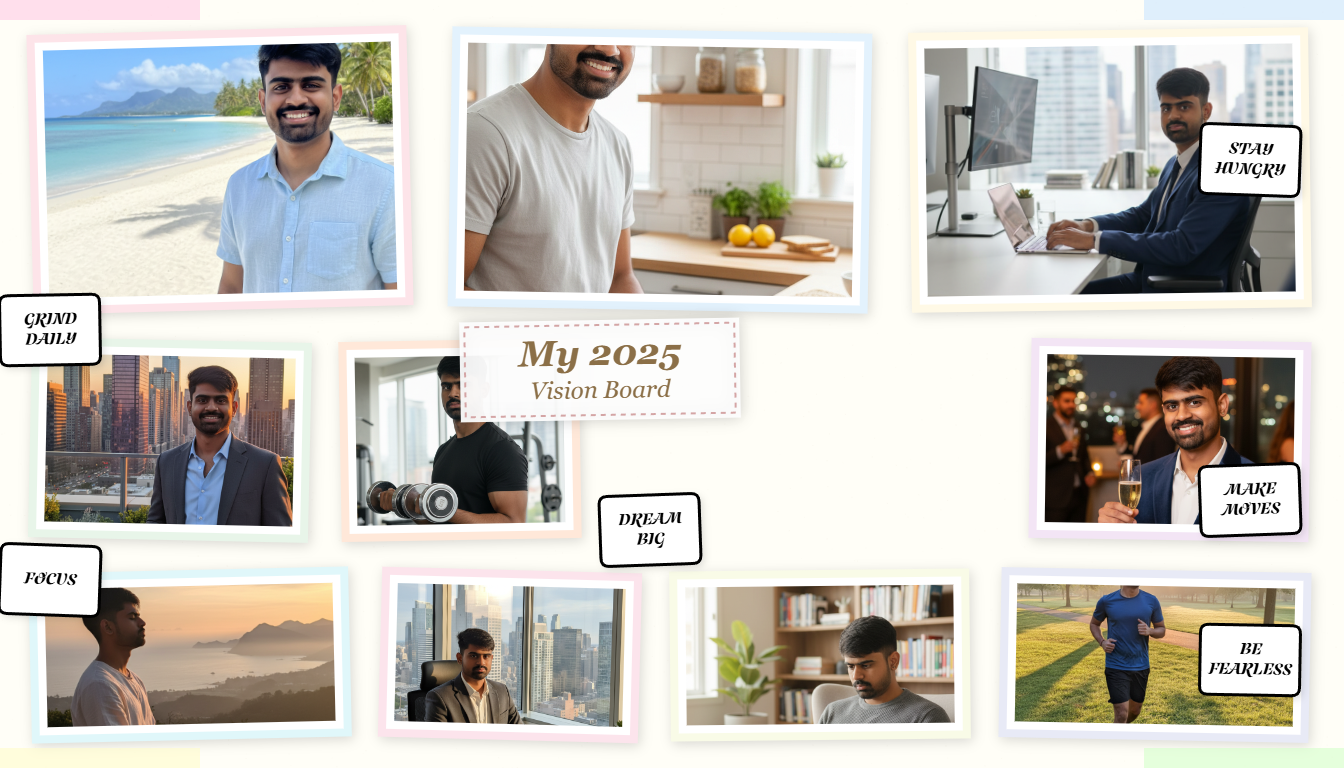
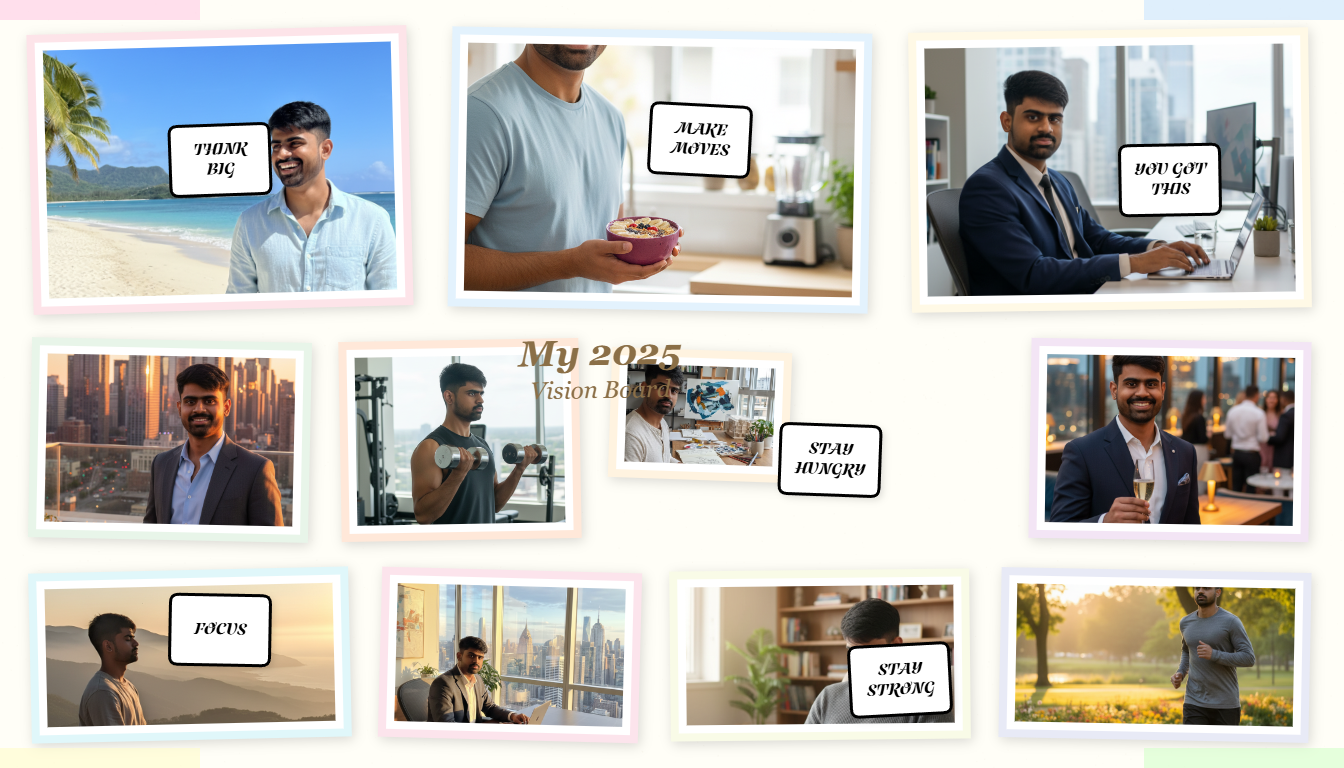
scarpbook layout changes

diff --git a/src/components/templates/MinimalScrapbookTemplate.tsx b/src/components/templates/MinimalScrapbookTemplate.tsx
@@ -73,8 +73,8 @@ export default function MinimalScrapbookTemplate({
     { top: 570, left: 670, width: 300, height: 170, rotate: -0.6, border: '#f9fbe7', keyword: "" },
     { top: 570, left: 1000, width: 310, height: 170, rotate: 1.1, border: '#e8eaf6', keyword: keywords[4] },
 
-    // Additional center image - small accent
-    { top: 350, left: 610, width: 180, height: 130, rotate: 2, border: '#fff3e0', keyword: "" },
+    // Additional right image - larger accent on right side
+    { top: 340, left: 820, width: 180, height: 190, rotate: -1.5, border: '#ede7f6', keyword: "" },
   ];
 
   // Canvas rendering for download
@@ -186,14 +186,14 @@ export default function MinimalScrapbookTemplate({
         }
       }
 
-      // Add inspirational quotes in containers - spread across the board
+      // Add inspirational quotes in containers - positioned between images
       const quotePositions = [
-        { x: 220, y: 160, size: 16, rotation: -2, width: 100, height: 70, radius: 8 }, // Top left area
-        { x: 700, y: 140, size: 16, rotation: 3, width: 100, height: 70, radius: 8 }, // Top center
-        { x: 1170, y: 180, size: 16, rotation: -1, width: 100, height: 70, radius: 8 }, // Top right
-        { x: 830, y: 460, size: 16, rotation: 2, width: 100, height: 70, radius: 8 }, // Center right
-        { x: 220, y: 630, size: 16, rotation: 1, width: 100, height: 70, radius: 8 }, // Bottom left
-        { x: 900, y: 680, size: 16, rotation: -3, width: 100, height: 70, radius: 8 }, // Bottom center
+        { x: 220, y: 320, size: 16, rotation: -2, width: 100, height: 70, radius: 8 }, // Between top-left and middle-left
+        { x: 700, y: 320, size: 16, rotation: 2, width: 100, height: 70, radius: 8 }, // Between top-center and center
+        { x: 1170, y: 260, size: 16, rotation: -1, width: 100, height: 70, radius: 8 }, // Between top-right and middle-right
+        { x: 360, y: 550, size: 16, rotation: 1, width: 100, height: 70, radius: 8 }, // Between middle and bottom left
+        { x: 850, y: 550, size: 16, rotation: -2, width: 100, height: 70, radius: 8 }, // Between middle and bottom center
+        { x: 1170, y: 550, size: 16, rotation: 2, width: 100, height: 70, radius: 8 }, // Between middle-right and bottom-right
       ];
 
       const inspirationalQuotes = quotePositions.map((pos, index) => ({
@@ -263,8 +263,39 @@ export default function MinimalScrapbookTemplate({
       ctx.translate(centerX, centerY);
       ctx.rotate((-1 * Math.PI) / 180);
 
-      // Title background - completely transparent (no background)
-      // Removed background rectangle for transparent effect
+      // Title background - semi-transparent white with border
+      const titleWidth = 250;
+      const titleHeight = 90;
+      const titleX = -titleWidth / 2;
+      const titleY = -titleHeight / 2;
+      const titleRadius = 8;
+
+      // Draw rounded rectangle background
+      ctx.beginPath();
+      ctx.moveTo(titleX + titleRadius, titleY);
+      ctx.lineTo(titleX + titleWidth - titleRadius, titleY);
+      ctx.quadraticCurveTo(titleX + titleWidth, titleY, titleX + titleWidth, titleY + titleRadius);
+      ctx.lineTo(titleX + titleWidth, titleY + titleHeight - titleRadius);
+      ctx.quadraticCurveTo(titleX + titleWidth, titleY + titleHeight, titleX + titleWidth - titleRadius, titleY + titleHeight);
+      ctx.lineTo(titleX + titleRadius, titleY + titleHeight);
+      ctx.quadraticCurveTo(titleX, titleY + titleHeight, titleX, titleY + titleHeight - titleRadius);
+      ctx.lineTo(titleX, titleY + titleRadius);
+      ctx.quadraticCurveTo(titleX, titleY, titleX + titleRadius, titleY);
+      ctx.closePath();
+
+      // Fill with semi-transparent white
+      ctx.fillStyle = 'rgba(255, 255, 255, 0.85)';
+      ctx.shadowColor = 'rgba(0, 0, 0, 0.1)';
+      ctx.shadowBlur = 15;
+      ctx.shadowOffsetX = 0;
+      ctx.shadowOffsetY = 2;
+      ctx.fill();
+
+      // Draw border
+      ctx.strokeStyle = 'rgba(139, 111, 71, 0.3)';
+      ctx.lineWidth = 2;
+      ctx.shadowColor = 'transparent';
+      ctx.stroke();
 
       // Title text
       ctx.shadowColor = 'transparent';
@@ -379,14 +410,14 @@ export default function MinimalScrapbookTemplate({
           );
         })}
 
-        {/* Inspirational Quotes in Containers - Spread across the board */}
+        {/* Inspirational Quotes in Containers - Positioned between images */}
 
-        {/* Quote 1 - Top left area */}
+        {/* Quote 1 - Between top-left and middle-left */}
         <div
           style={{
             position: "absolute",
-            top: "160px",
-            left: "220px",
+            top: "285px",
+            left: "170px",
             width: "100px",
             height: "70px",
             transform: "rotate(-2deg)",
@@ -416,15 +447,15 @@ export default function MinimalScrapbookTemplate({
           />
         </div>
 
-        {/* Quote 2 - Top center */}
+        {/* Quote 2 - Between top-center and center */}
         <div
           style={{
             position: "absolute",
-            top: "140px",
-            left: "700px",
+            top: "285px",
+            left: "650px",
             width: "100px",
             height: "70px",
-            transform: "rotate(3deg)",
+            transform: "rotate(2deg)",
             backgroundColor: "#ffffff",
             border: "3px solid #000000",
             borderRadius: "8px",
@@ -451,12 +482,12 @@ export default function MinimalScrapbookTemplate({
           />
         </div>
 
-        {/* Quote 3 - Top right */}
+        {/* Quote 3 - Between top-right and middle-right */}
         <div
           style={{
             position: "absolute",
-            top: "180px",
-            left: "1170px",
+            top: "225px",
+            left: "1120px",
             width: "100px",
             height: "70px",
             transform: "rotate(-1deg)",
@@ -486,15 +517,15 @@ export default function MinimalScrapbookTemplate({
           />
         </div>
 
-        {/* Quote 4 - Center right */}
+        {/* Quote 4 - Between middle and bottom left */}
         <div
           style={{
             position: "absolute",
-            top: "460px",
-            left: "830px",
+            top: "515px",
+            left: "310px",
             width: "100px",
             height: "70px",
-            transform: "rotate(2deg)",
+            transform: "rotate(1deg)",
             backgroundColor: "#ffffff",
             border: "3px solid #000000",
             borderRadius: "8px",
@@ -521,15 +552,15 @@ export default function MinimalScrapbookTemplate({
           />
         </div>
 
-        {/* Quote 5 - Bottom left */}
+        {/* Quote 5 - Between middle and bottom center */}
         <div
           style={{
             position: "absolute",
-            top: "630px",
-            left: "220px",
+            top: "515px",
+            left: "800px",
             width: "100px",
             height: "70px",
-            transform: "rotate(1deg)",
+            transform: "rotate(-2deg)",
             backgroundColor: "#ffffff",
             border: "3px solid #000000",
             borderRadius: "8px",
@@ -556,15 +587,15 @@ export default function MinimalScrapbookTemplate({
           />
         </div>
 
-        {/* Quote 6 - Bottom center */}
+        {/* Quote 6 - Between middle-right and bottom-right */}
         <div
           style={{
             position: "absolute",
-            top: "680px",
-            left: "900px",
+            top: "515px",
+            left: "1120px",
             width: "100px",
             height: "70px",
-            transform: "rotate(-3deg)",
+            transform: "rotate(2deg)",
             backgroundColor: "#ffffff",
             border: "3px solid #000000",
             borderRadius: "8px",
@@ -591,15 +622,18 @@ export default function MinimalScrapbookTemplate({
           />
         </div>
 
-        {/* Center Title - Transparent background */}
+        {/* Center Title - Semi-transparent background */}
         <div
-          className="absolute flex flex-col items-center justify-center"
+          className="absolute flex flex-col items-center justify-center rounded-lg"
           style={{
             top: '320px',
-            left: '460px',
-            width: '280px',
-            height: '100px',
+            left: '475px',
+            width: '250px',
+            height: '90px',
             transform: 'rotate(-1deg)',
+            backgroundColor: 'rgba(255, 255, 255, 0.85)',
+            border: '2px solid rgba(139, 111, 71, 0.3)',
+            boxShadow: '0 2px 15px rgba(0, 0, 0, 0.1)',
             zIndex: 100,
           }}
         >
